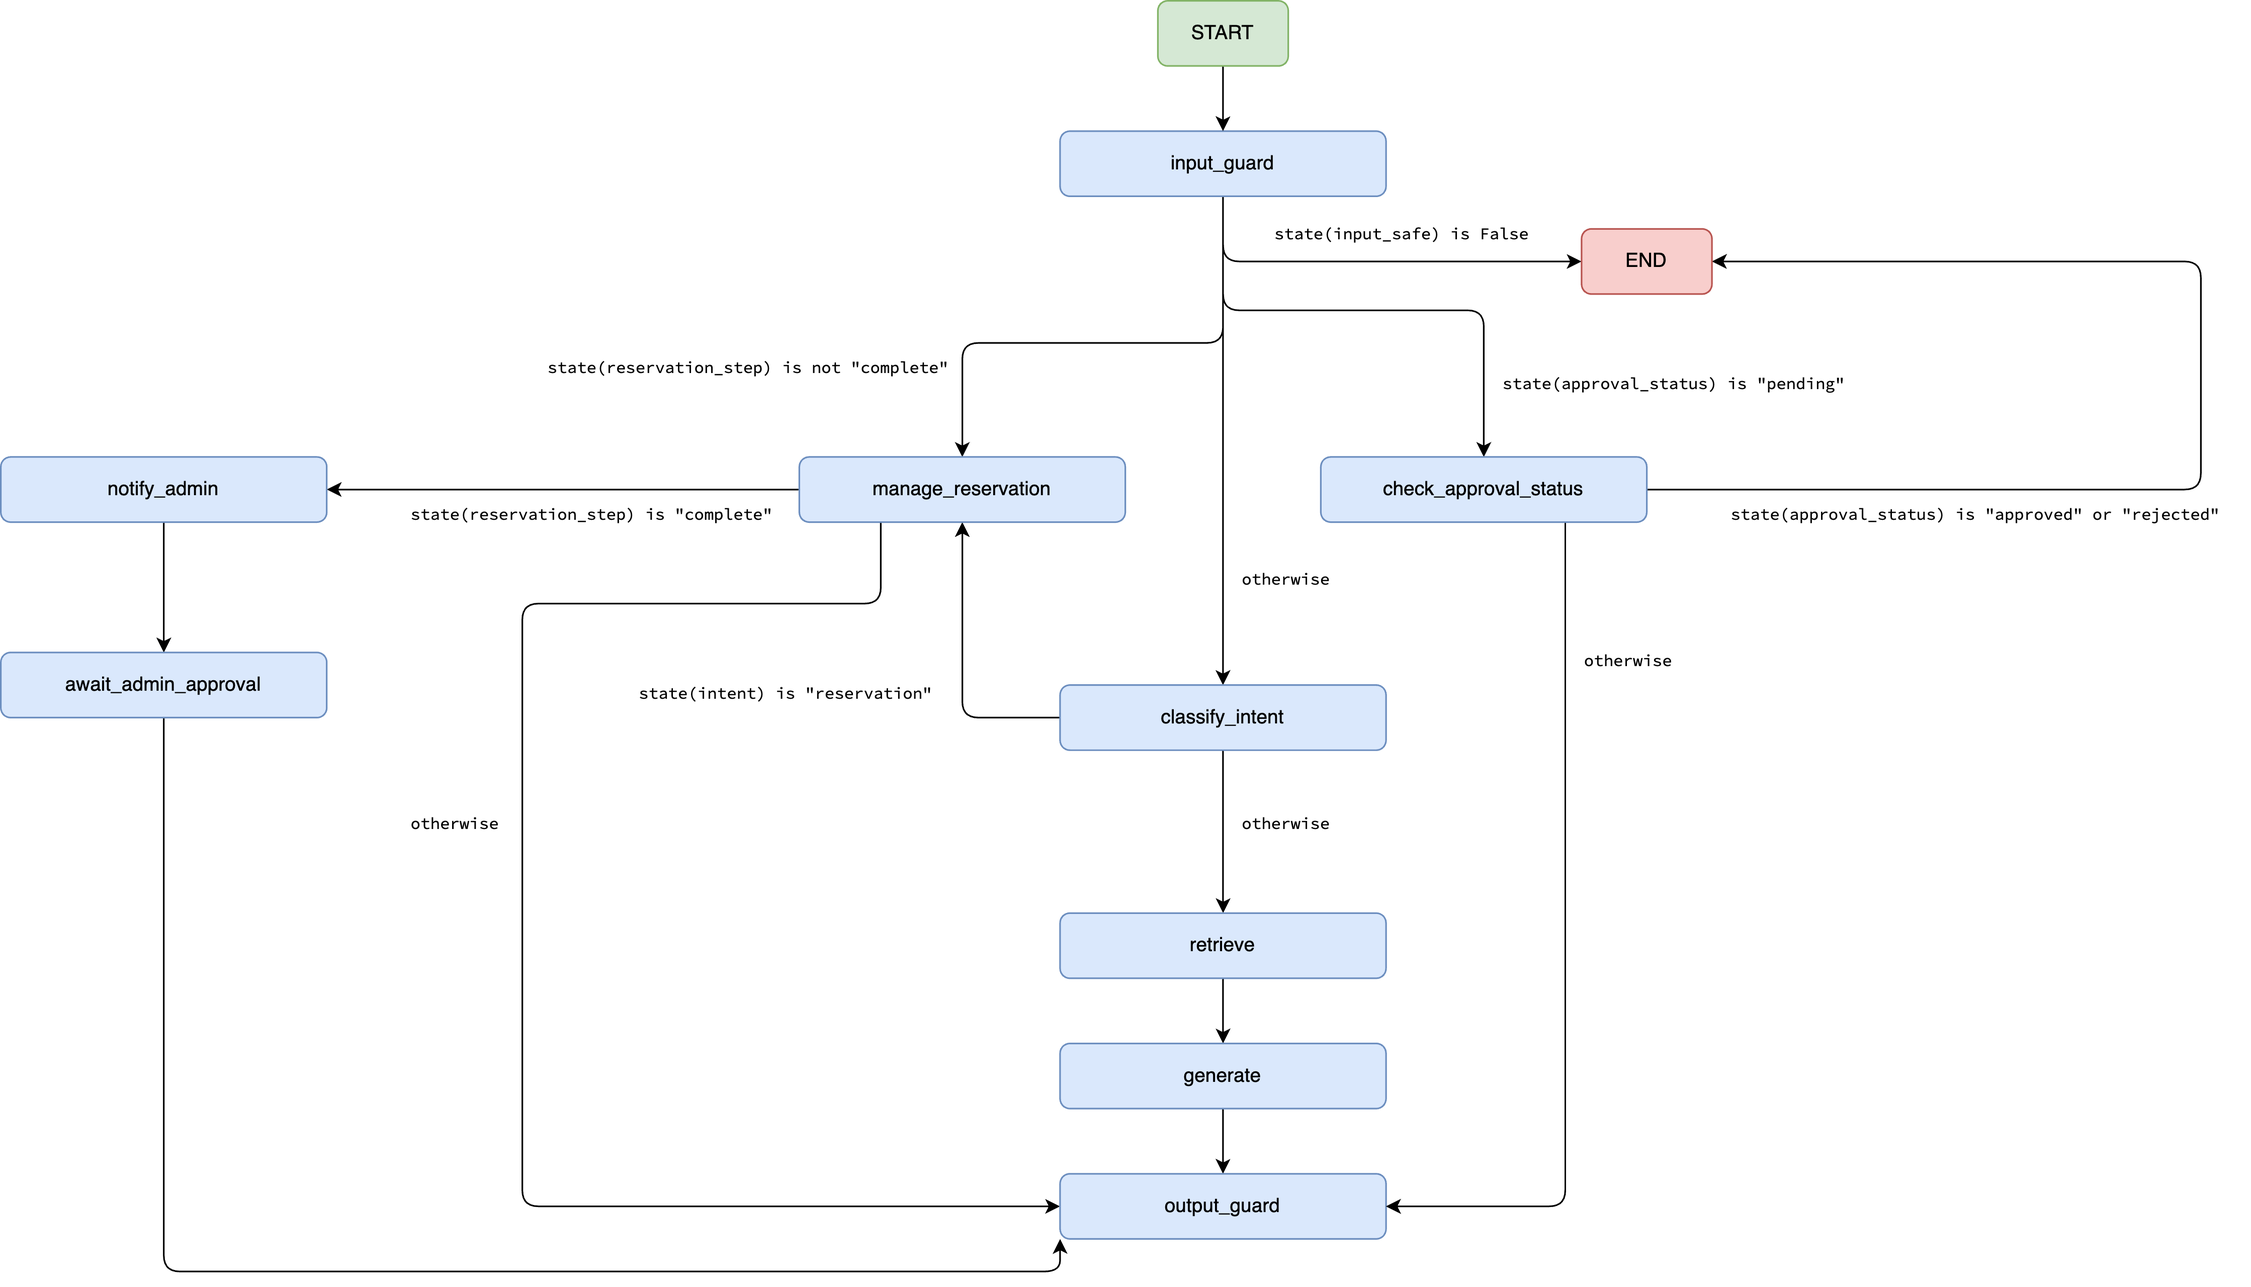
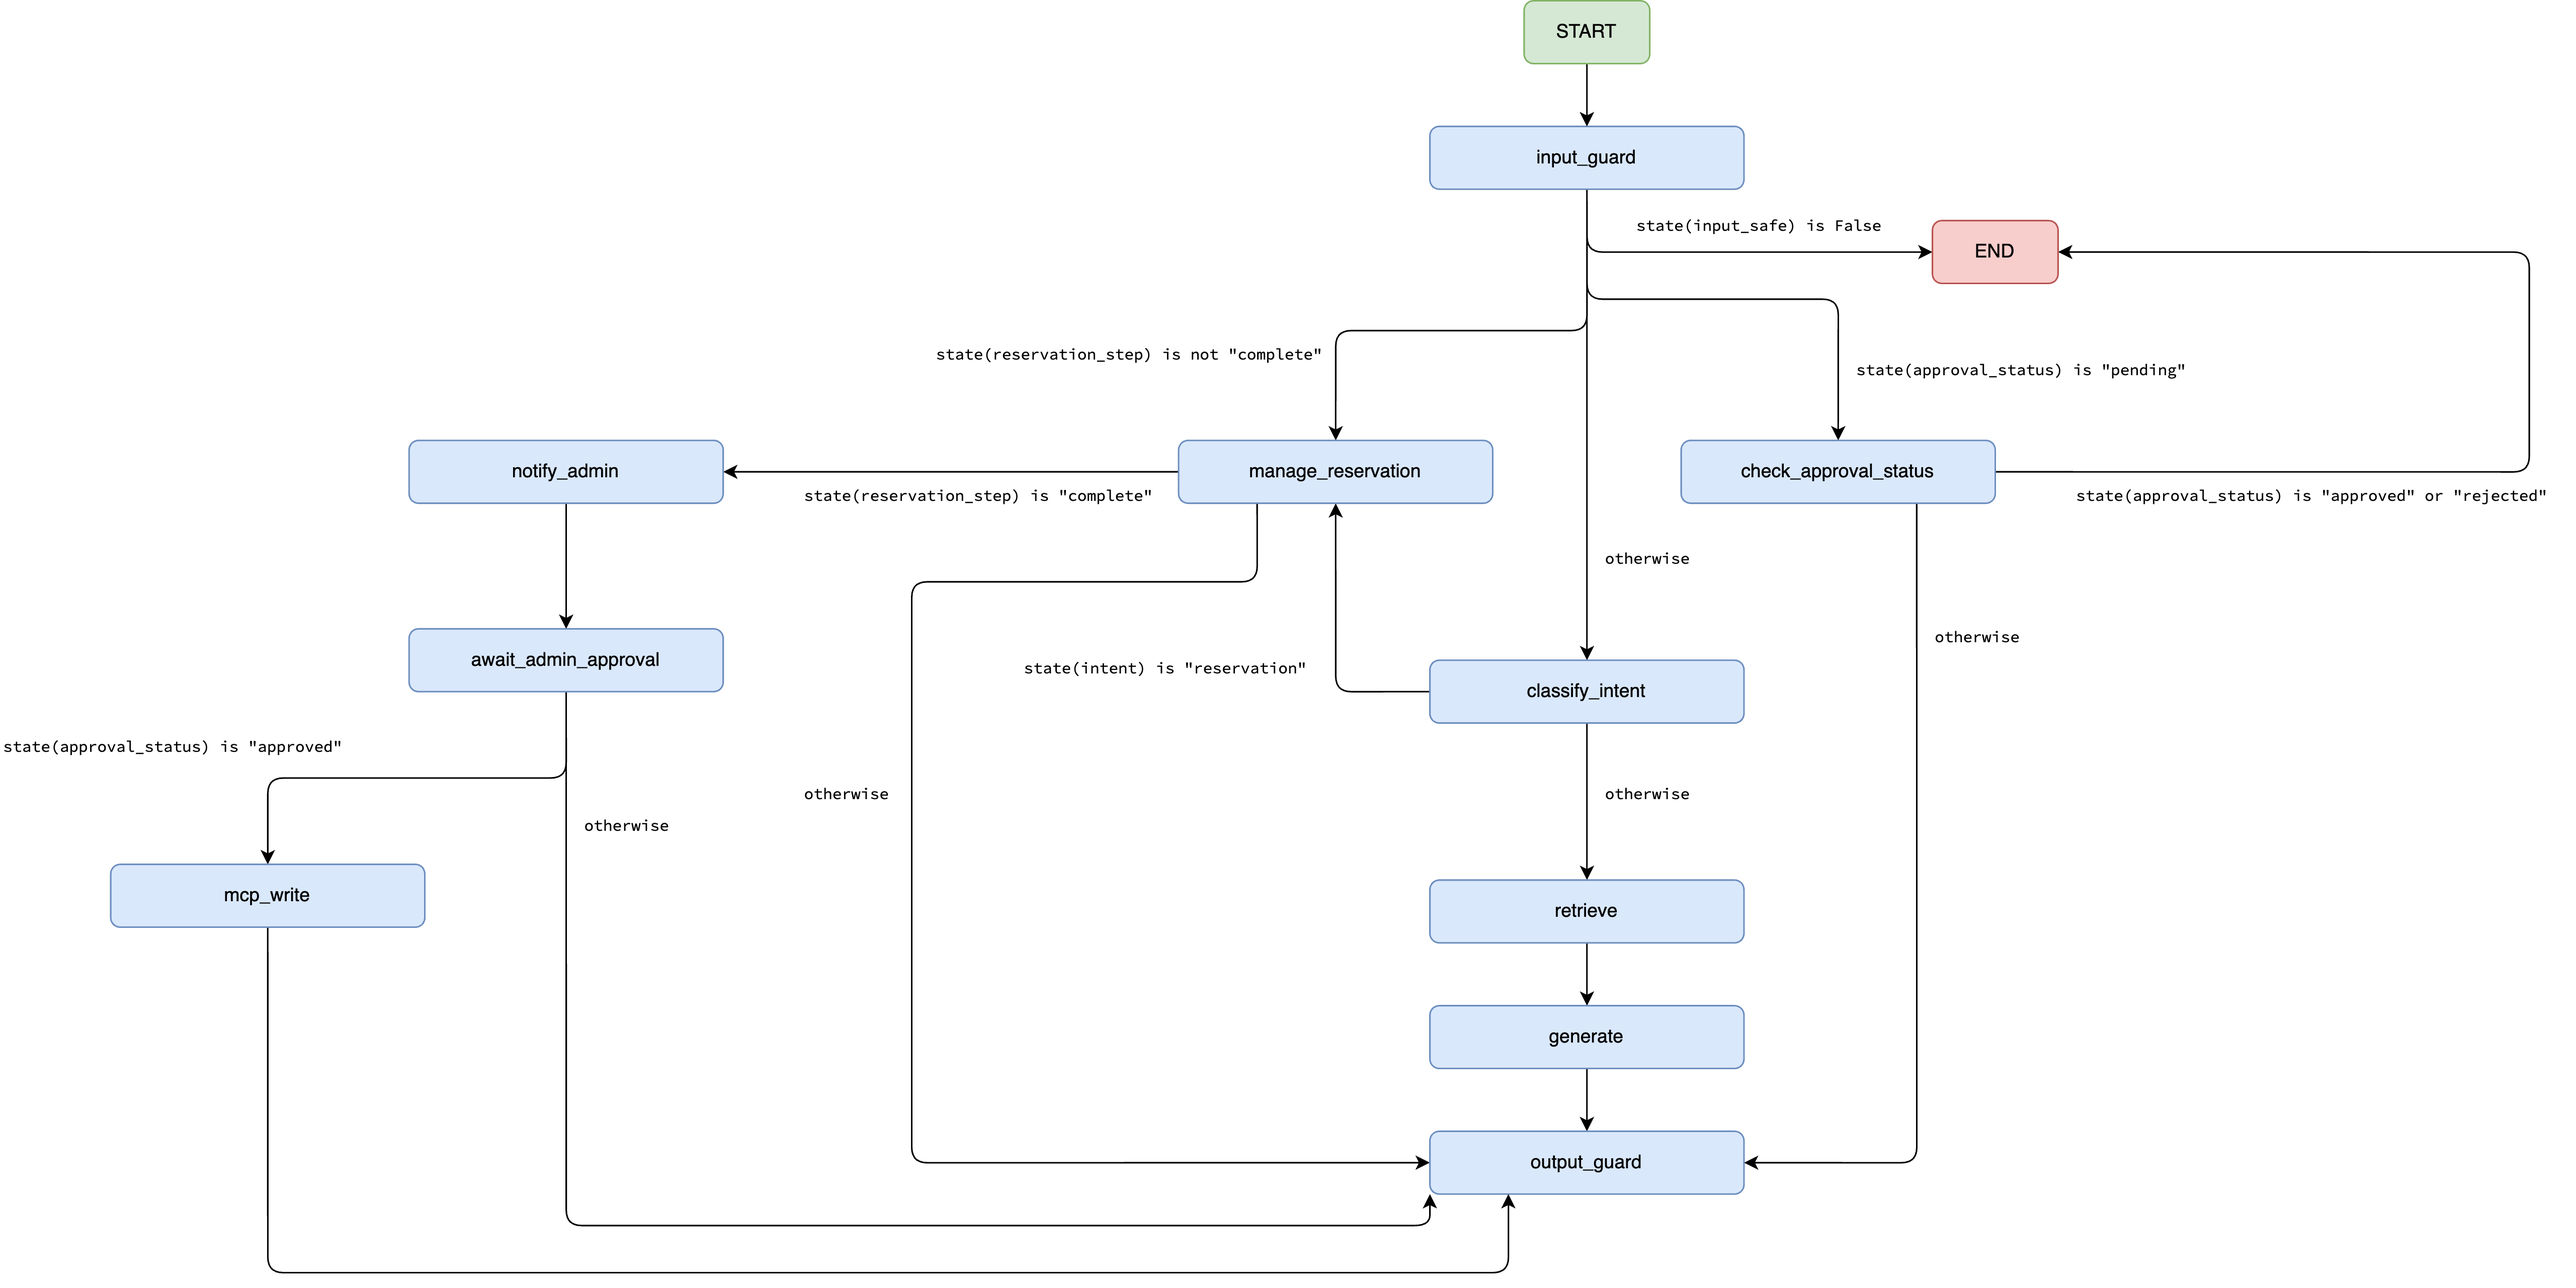
architecture initial

diff --git a/README.md b/README.md
@@ -6,35 +6,7 @@ An intelligent parking assistant chatbot built with **LangChain**, **LangGraph**
 
 ## Architecture
 
-```
-User (Streamlit — app.py)
-       │
-       ▼
-  LangGraph Workflow  (MemorySaver checkpointer, thread_id per session)
-  ┌──────────────────────────────────────────────────────────────┐
-  │  input_guard ──(unsafe)──► END                               │
-  │       │                                                      │
-  │  [approval_status == "pending"?] ──► check_approval_status   │
-  │       │                                                      │
-  │  classify_intent                                             │
-  │       ├── "info" / "other" ──► retrieve ──► generate         │
-  │       └── "reservation"   ──► manage_reservation             │
-  │                                    │                         │
-  │                          [complete?]                         │
-  │                                    ├── no  ──► output_guard  │
-  │                                    └── yes ──► notify_admin  │
-  │                                                    │         │
-  │                                             ◉ INTERRUPT      │
-  │                                                    │         │
-  │                                        await_admin_approval  │
-  │                                                    │         │
-  │                                             output_guard     │
-  └──────────────────────────────────────────────────────────────┘
-       │
-       ▼
-  Pinecone (static parking docs)   OpenAI (embeddings + chat)
-  pending_reservations.json        admin_notifications.log (SMTP fallback)
-```
+<img src="docs/img/parking_assistant_architecture-LLDD.png" alt="Architecture" title="Architecture">
 
 ### Human-in-the-loop flow
 
